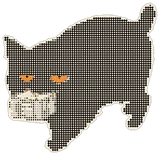
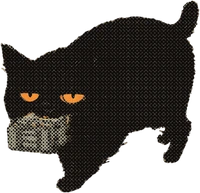
심묘시티: 오늘 뽑은 건물 전부로 동네 채움, 망점을 캐릭터에 씌운 심묘, 랜드마크 이름표
Claude-Session: https://claude.ai/code/session_01X1y5x5ur2CZT5SHiYxRsCA

diff --git a/proto/city.html b/proto/city.html
@@ -28,10 +28,13 @@ body::after{content:"";position:fixed;inset:0;pointer-events:none;z-index:80;opa
 .b .lab b{color:var(--amber);font-weight:700;margin-left:7px}
 .b:hover .lab,.b.near .lab{opacity:1;transform:translate(-50%,-112%)}
 .b.deco{cursor:default}
+.b.mark::after{content:attr(data-n);position:absolute;left:50%;bottom:-14px;transform:translateX(-50%);white-space:nowrap;font:700 12px var(--sans);letter-spacing:.08em;color:var(--ink);background:rgba(236,226,201,.92);border:1.3px solid var(--ink);padding:3px 9px;border-radius:20px}
+.b.mark:hover::after,.b.mark.near::after{opacity:0}
+.b.mark.off::after{display:none}
 .b.deco:hover{filter:none}
 .pop{animation:pop .7s cubic-bezier(.3,1.6,.5,1)}
 @keyframes pop{0%{transform:translate(-50%,-100%) scale(.3,0)}60%{transform:translate(-50%,-100%) scale(1.04,1.08)}100%{transform:translate(-50%,-100%) scale(1)}}
-#cat{position:absolute;width:96px;margin:0;pointer-events:none;z-index:99999!important;transform:translate(-50%,-92%)}
+#cat{position:absolute;width:110px;margin:0;pointer-events:none;z-index:99999!important;transform:translate(-50%,-92%)}
 #cat img{width:100%;display:block;filter:drop-shadow(0 6px 3px rgba(0,0,0,.25))}
 #cat i{position:absolute;left:50%;bottom:-6px;width:46px;height:10px;margin-left:-23px;border-radius:50%;background:rgba(40,25,10,.22);filter:blur(2px)}
 #tram{position:absolute;z-index:8000;pointer-events:auto;cursor:pointer}
@@ -145,7 +148,7 @@ function pt(a){return a.map(function(q){var p=iso(q[0],q[1]);return p[0].toFixed
 var svg='<defs><pattern id="hatch" width="7" height="7" patternUnits="userSpaceOnUse" patternTransform="rotate(30)"><line x1="0" y1="0" x2="0" y2="7" stroke="rgba(90,70,40,.13)" stroke-width="1.2"/></pattern>'+
  '<radialGradient id="hill" cx="50%" cy="60%" r="60%"><stop offset="0" stop-color="#9fae7e"/><stop offset="1" stop-color="#7f9466"/></radialGradient></defs>';
 svg+='<polygon points="'+pt([[-6,-4],[118,-4],[118,96],[-6,96]])+'" fill="#e3d6b3" stroke="rgba(29,24,19,.35)" stroke-width="2"/>';
-svg+='<polygon points="'+pt([[-6,-4],[118,-4],[118,96],[-6,96]])+'" fill="url(#hatch)"/>';
+svg+='<polygon points="'+pt([[-6,-4],[118,-4],[118,96],[-6,96]])+'" fill="url(#hatch)"/>';svg+='<polygon points="'+pt([[30,4],[10,20],[6,46],[16,70],[38,90],[62,92],[90,80],[108,52],[104,24],[80,6],[52,0]])+'" fill="#d8c9a3" opacity=".55"/>';
 /* 산 : 북악(북), 남산(남) — 부드러운 언덕 */
 function hill(x,y,rx,ry,h){var c=iso(x,y);return '<g><ellipse cx="'+c[0]+'" cy="'+c[1]+'" rx="'+rx+'" ry="'+ry+'" fill="url(#hill)" stroke="rgba(29,24,19,.45)" stroke-width="1.5"/><path d="M'+(c[0]-rx*.7)+' '+(c[1]-ry*.1)+' Q'+c[0]+' '+(c[1]-h)+' '+(c[0]+rx*.7)+' '+(c[1]-ry*.1)+'" fill="#8ea173" stroke="rgba(29,24,19,.45)" stroke-width="1.5"/></g>'}
 svg+=hill(30,-2,260,70,170)+hill(62,94,300,80,190)+hill(6,48,150,48,90);
@@ -166,9 +169,35 @@ g.innerHTML=svg;
 
 /* 건물 놓기 */
 function place(o,el){var p=iso(o.x,o.y);el.style.left=p[0]+'px';el.style.top=p[1]+'px';el.style.width=o.w+'px';el.style.transform='translate(-50%,-100%)';el.style.zIndex=Math.round(p[1])}
-HANOK.forEach(function(h){var el=D.createElement('div');el.className='b deco';el.innerHTML='<img src="'+C+'hanok'+h[2]+'.webp" alt="">';place({x:h[0],y:h[1],w:140},el);world.appendChild(el)});
+/* ── 빈 땅 채우기 : 구역마다 그 동네다운 건물로 촘촘하게 ── */
+var seed=7;function rnd(){seed=(seed*16807)%2147483647;return (seed-1)/2147483646}
+var X={h:['x_h000','x_h002','x_h003','hanokA','hanokB'],s:['x_s011','x_s012','x_s013','x_s015','x_s019','x_s020','x_s021','x_s029'],m:['x_m030','x_m031','x_m032','x_m033','x_m034','x_m009','x_m004'],b:['x_b042','x_b044','x_b046'],w:['x_w048','x_w050']};
+var WALL=[[30,4],[10,20],[6,46],[16,70],[38,90],[62,92],[90,80],[108,52],[104,24],[80,6],[52,0],[30,4]];
+function inPoly(x,y,P){var c=false;for(var i=0,j=P.length-1;i<P.length;j=i++){var a=P[i],b=P[j];if(((a[1]>y)!==(b[1]>y))&&(x<(b[0]-a[0])*(y-a[1])/(b[1]-a[1])+a[0]))c=!c}return c}
+function dSeg(x,y,a,b){var dx=b[0]-a[0],dy=b[1]-a[1],t=Math.max(0,Math.min(1,((x-a[0])*dx+(y-a[1])*dy)/(dx*dx+dy*dy)));return Math.hypot(x-a[0]-t*dx,y-a[1]-t*dy)}
+function nearRoad(x,y){var m=1e9;ROADS.forEach(function(r){for(var i=0;i<r.p.length-1;i++){var d=dSeg(x,y,r.p[i],r.p[i+1])-r.w/22;if(d<m)m=d}});return m}
+function nearMark(x,y){var m=1e9;B.forEach(function(o){if(o.deco)return;var d=Math.hypot(o.x-x,o.y-y)-(o.id==='stadium'?11:o.id==='jodk'?6:4.5);if(d<m)m=d});return m}
+function zone(x,y,nr){
+ if(Math.abs(y-30)<7&&nr<3.2)return rnd()<.62?'s':(rnd()<.45?'b':(rnd()<.5?'m':'h'));
+ if(x>36&&x<58&&y>50&&y<80)return rnd()<.3?'m':(rnd()<.6?'s':'h');
+ if(Math.abs(x-45)<6&&y>30&&y<70)return rnd()<.3?'m':(rnd()<.6?'s':'h');
+ if(y<30)return rnd()<.93?'h':'s';
+ return rnd()<.84?'h':'s'}
+var SZ={h:150,s:112,m:138,b:150,w:122},fills=[];
+for(var gy=6;gy<92;gy+=5.2){for(var gx=4;gx<110;gx+=5.6){
+ var x=gx+(rnd()-.5)*2.2+((Math.round(gy/5.2)%2)*2.8),y=gy+(rnd()-.5)*1.6;
+ if(!inPoly(x,y,WALL))continue;var nr=nearRoad(x,y);if(nr<1.6)continue;if(nearMark(x,y)<1.5)continue;
+ if(rnd()<.12)continue;
+ var z=zone(x,y,nr),list=X[z],k=list[Math.floor(rnd()*list.length)];
+ fills.push({x:x,y:y,w:SZ[z]*(.9+rnd()*.2),img:C+k+'.webp',z:z});}}
+fills.forEach(function(f){var el=D.createElement('div');el.className='b deco';el.innerHTML='<img src="'+f.img+'" alt="" loading="lazy">';place(f,el);world.appendChild(el)});
+/* 나무 */
+for(var n=0;n<90;n++){var x=4+rnd()*106,y=4+rnd()*88;if(!inPoly(x,y,WALL)&&rnd()<.6)continue;if(nearRoad(x,y)<1.2||nearMark(x,y)<1)continue;
+ var el=D.createElement('div');el.className='b deco tree';var hh=26+rnd()*22,c=['#4f6b45','#3e5b3c','#6b7f4a','#5b6e3e'][Math.floor(rnd()*4)];
+ el.innerHTML='<svg width="40" height="'+(hh+14)+'" viewBox="0 0 40 '+(hh+14)+'"><rect x="18" y="'+(hh-4)+'" width="4" height="16" fill="#5a4330"/><ellipse cx="20" cy="'+(hh*.55)+'" rx="16" ry="'+(hh*.55)+'" fill="'+c+'" stroke="#1d1813" stroke-width="1.6"/><path d="M10 '+(hh*.5)+' q6 -6 12 -2" stroke="rgba(255,255,255,.25)" stroke-width="2" fill="none"/></svg>';
+ place({x:x,y:y,w:40},el);world.appendChild(el)}
 var EL={};
-B.forEach(function(o){if(o.deco)return;var el=D.createElement('div');el.className='b';el.dataset.id=o.id;el.innerHTML='<img src="'+o.img+'" alt="'+o.name+'"><span class="lab">'+o.name+'<b>'+o.yr+'</b></span>';place(o,el);world.appendChild(el);EL[o.id]=el;
+B.forEach(function(o){if(o.deco)return;o.w=Math.round(o.w*1.22);var el=D.createElement('div');el.className='b mark';el.dataset.id=o.id;el.dataset.n=o.name;el.innerHTML='<img src="'+o.img+'" alt="'+o.name+'"><span class="lab">'+o.name+'<b>'+o.yr+'</b></span>';place(o,el);world.appendChild(el);EL[o.id]=el;
  el.addEventListener('click',function(e){if(moved)return;open(o)})});
 /* 전차 (종로를 오감) */
 var tram=D.createElement('div');tram.id='tram';tram.innerHTML='<svg width="74" height="54" viewBox="0 0 74 54"><g transform="skewY(-26)" ><rect x="6" y="40" width="60" height="22" rx="3" fill="#e9c66a" stroke="#1d1813" stroke-width="2"/><rect x="6" y="52" width="60" height="10" fill="#5f8f8a" stroke="#1d1813" stroke-width="2"/><g fill="#f4ecd6" stroke="#1d1813" stroke-width="1.4"><rect x="11" y="43" width="8" height="7"/><rect x="23" y="43" width="8" height="7"/><rect x="35" y="43" width="8" height="7"/><rect x="47" y="43" width="8" height="7"/></g><path d="M36 40 L44 26" stroke="#1d1813" stroke-width="2"/></g></svg>';world.appendChild(tram);
